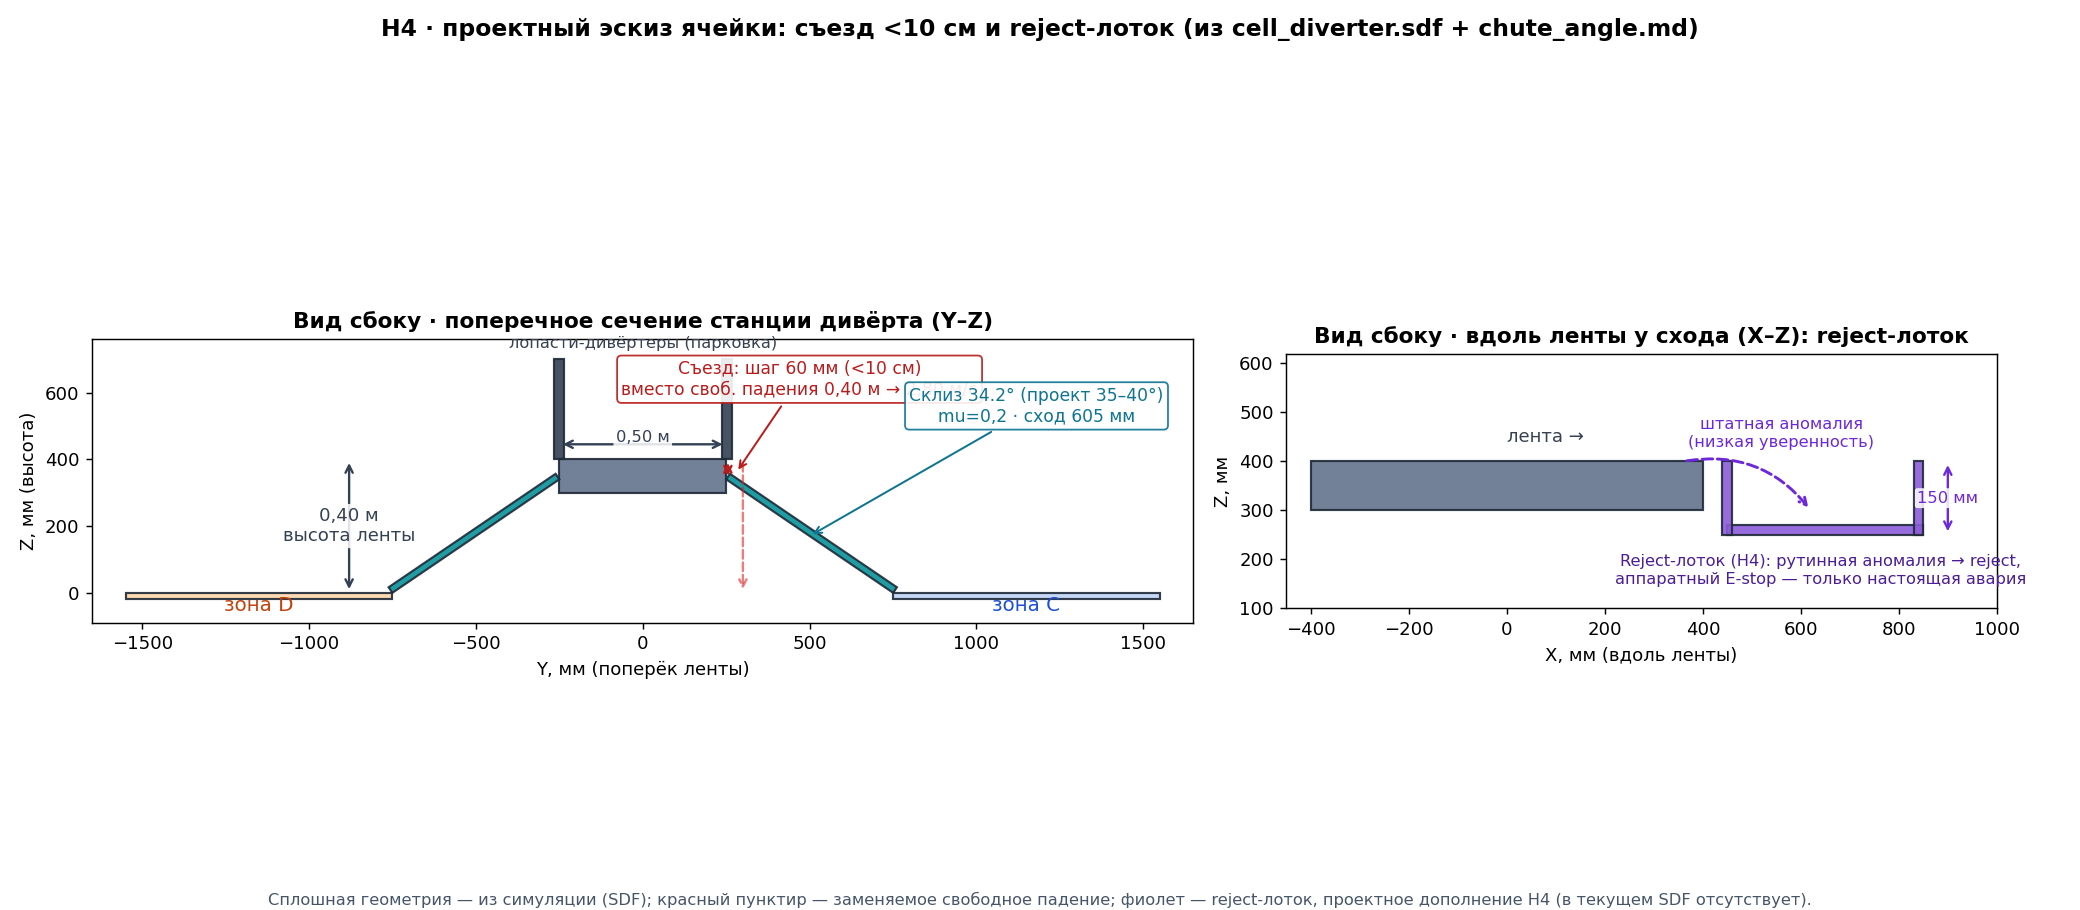
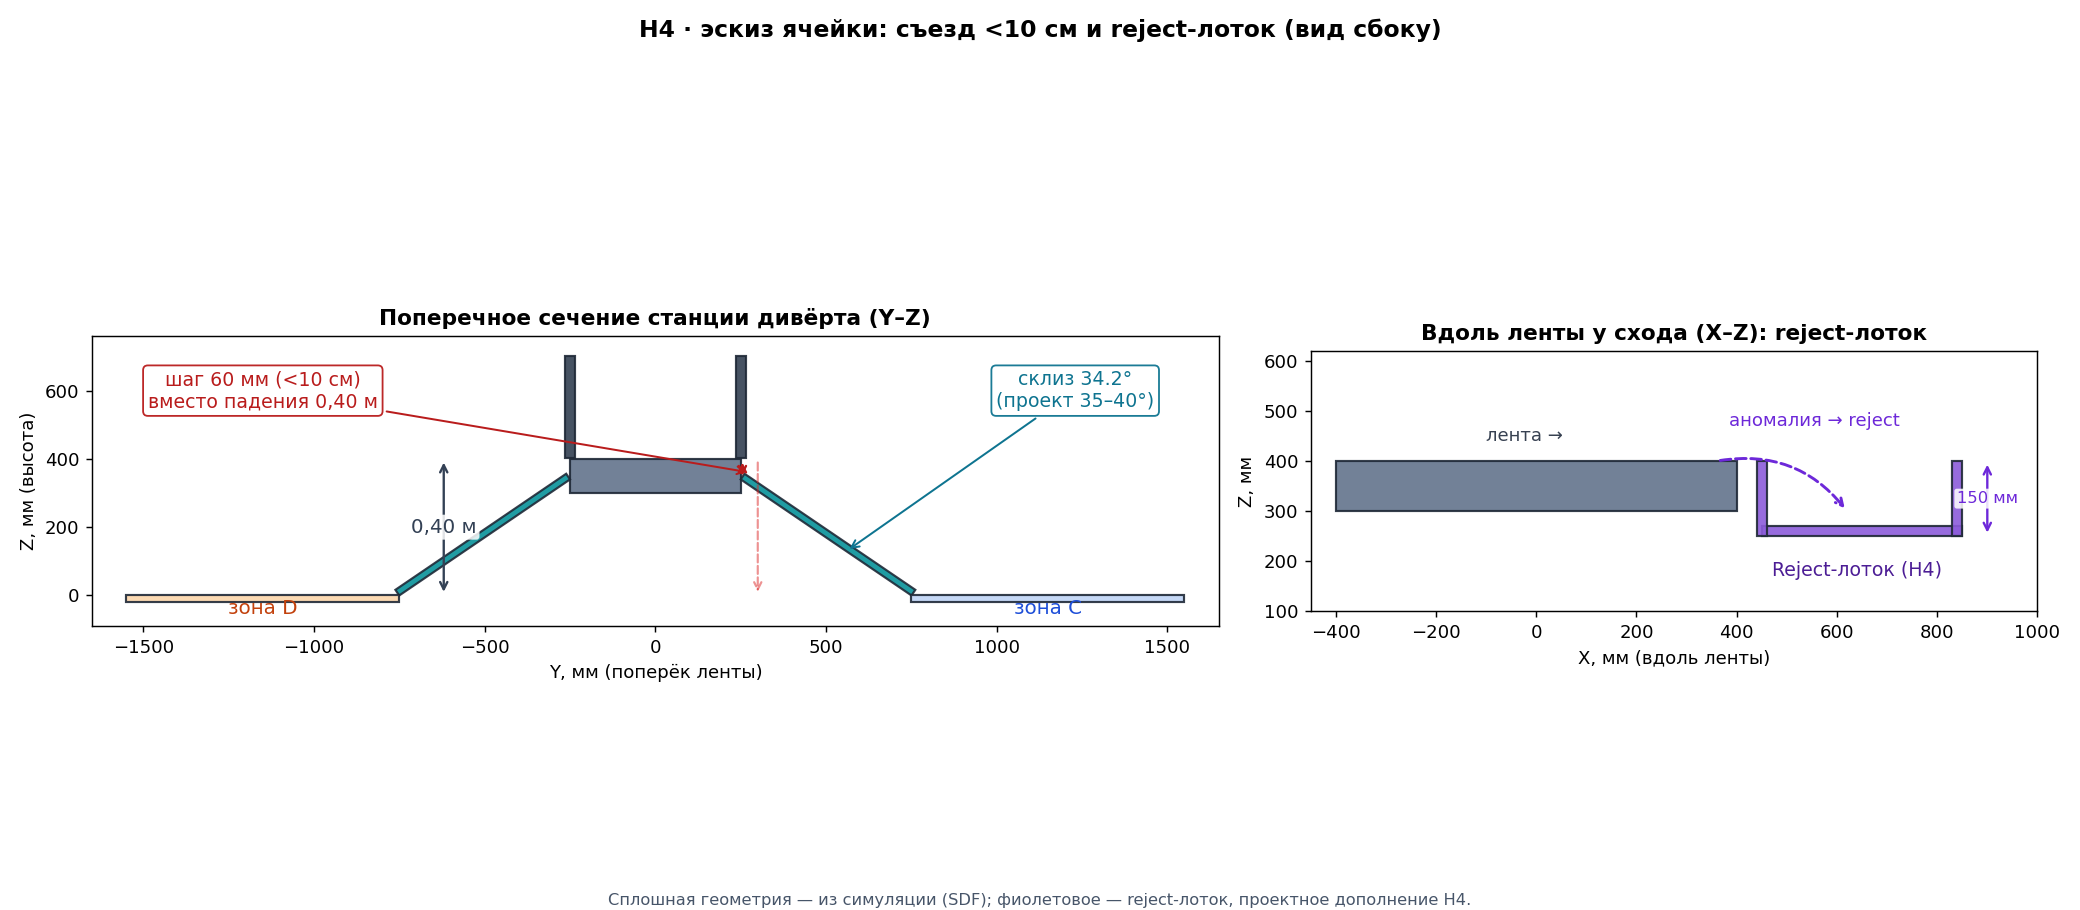
docs(defense): H4 чертёж — убрать наложение подписей и лишние размеры
Подписи шага и склиза разведены в противоположные углы (не наезжают); убраны
0,50 м, mu/605, многословные заголовки и подпись reject. Только суть: 0,40 м,
шаг 60 мм <10 см, склиз 34,2°, зоны, reject-лоток + 150 мм.

Claude-Session: https://claude.ai/code/session_01X8Q1UkytWSaZvYtUbJ2fiU

diff --git a/docs/defense/cad/render_cell_cad.py b/docs/defense/cad/render_cell_cad.py
@@ -79,37 +79,30 @@ def draw_dims():
                                  facecolor=p["color"], edgecolor="#1f2937",
                                  lw=1.2, alpha=0.9, zorder=2))
     d = geom.DIMS
-    # belt height 0.40 m (left, clear of everything)
-    _dim(axA, (-880, 0), (-880, d["belt_top_z"]), "0,40 м\nвысота ленты",
-         off=0, fs=10)
-    # belt width, between the parked blades above the belt
-    _dim(axA, (-250, 445), (250, 445), "0,50 м", off=20, fs=9)
-    axA.text(0, 735, "лопасти-дивёртеры (парковка)", ha="center", fontsize=9,
-             color="#374151")
-    # --- descent comparison at the +Y belt edge: 60 mm step vs 0.40 m fall ---
-    # solid red bracket: the 60 mm step the item now takes onto the chute
+    # belt height 0.40 m (near the belt, left)
+    _dim(axA, (-620, 0), (-620, d["belt_top_z"]), "0,40 м", off=0, fs=11)
+    # 60 mm step bracket at the +Y belt edge; faded ghost of the 0.40 m free fall
     _dim(axA, (255, d["chute_top_z"]), (255, d["belt_top_z"]), "", color="#b91c1c")
-    # faded dashed: the 0.40 m free fall it replaces
     axA.annotate("", xy=(300, 0), xytext=(300, d["belt_top_z"]),
-                 arrowprops=dict(arrowstyle="->", color="#dc2626", lw=1.3,
-                                 linestyle="--", alpha=0.6))
-    axA.annotate("Съезд: шаг 60 мм (<10 см)\nвместо своб. падения 0,40 м → 2,80 м/с",
-                 xy=(280, 360), xytext=(470, 640), fontsize=9.5, color="#b91c1c",
+                 arrowprops=dict(arrowstyle="->", color="#dc2626", lw=1.2,
+                                 linestyle="--", alpha=0.5))
+    # step label -> upper-LEFT corner (clear of chute label at upper-right)
+    axA.annotate("шаг 60 мм (<10 см)\nвместо падения 0,40 м",
+                 xy=(278, 360), xytext=(-1150, 600), fontsize=10.5, color="#b91c1c",
                  ha="center", va="center",
                  bbox=dict(boxstyle="round,pad=0.25", fc="white", ec="#b91c1c",
-                           alpha=0.9),
+                           alpha=0.95),
                  arrowprops=dict(arrowstyle="->", color="#b91c1c", lw=1.1))
-    # --- chute label block, in the open area above zone C ---
-    axA.annotate(f"Склиз {geom.CHUTE_ANGLE_DEG:.1f}° (проект 35–40°)\n"
-                 "mu=0,2 · сход 605 мм",
-                 xy=(500, 170), xytext=(1180, 560), fontsize=9.5, color="#0e7490",
+    # chute label -> upper-RIGHT corner
+    axA.annotate(f"склиз {geom.CHUTE_ANGLE_DEG:.1f}°\n(проект 35–40°)",
+                 xy=(560, 130), xytext=(1230, 600), fontsize=10.5, color="#0e7490",
                  ha="center", va="center",
                  bbox=dict(boxstyle="round,pad=0.25", fc="white", ec="#0e7490",
-                           alpha=0.9),
+                           alpha=0.95),
                  arrowprops=dict(arrowstyle="->", color="#0e7490", lw=1.1))
     axA.text(1150, -55, "зона C", fontsize=11, color="#1d4ed8", ha="center")
     axA.text(-1150, -55, "зона D", fontsize=11, color="#c2410c", ha="center")
-    axA.set_title("Вид сбоку · поперечное сечение станции дивёрта (Y–Z)",
+    axA.set_title("Поперечное сечение станции дивёрта (Y–Z)",
                   fontsize=12, weight="bold")
     axA.set_xlim(-1650, 1650)
     axA.set_ylim(-90, 760)
@@ -127,14 +120,13 @@ def draw_dims():
     axB.annotate("", xy=(620, 300), xytext=(360, 400),
                  arrowprops=dict(arrowstyle="->", color="#6d28d9", lw=1.6,
                                  linestyle="--", connectionstyle="arc3,rad=-0.3"))
-    axB.text(560, 430, "штатная аномалия\n(низкая уверенность)", fontsize=9,
-             color="#6d28d9", ha="center")
+    axB.text(555, 470, "аномалия → reject", fontsize=10, color="#6d28d9",
+             ha="center")
     _dim(axB, (900, 250), (900, 400), "150 мм", off=0, color="#6d28d9", fs=9)
-    axB.text(640, 150, "Reject-лоток (H4): рутинная аномалия → reject,\n"
-                       "аппаратный E-stop — только настоящая авария",
-             fontsize=9, color="#4c1d95", ha="center")
-    axB.text(0, 440, "лента →", fontsize=10, color="#374151")
-    axB.set_title("Вид сбоку · вдоль ленты у схода (X–Z): reject-лоток",
+    axB.text(640, 170, "Reject-лоток (H4)", fontsize=10.5, color="#4c1d95",
+             ha="center")
+    axB.text(-100, 440, "лента →", fontsize=10, color="#374151")
+    axB.set_title("Вдоль ленты у схода (X–Z): reject-лоток",
                   fontsize=12, weight="bold")
     axB.set_xlim(-450, 1000)
     axB.set_ylim(100, 620)
@@ -142,13 +134,11 @@ def draw_dims():
     axB.set_xlabel("X, мм (вдоль ленты)")
     axB.set_ylabel("Z, мм")
 
-    fig.suptitle("H4 · проектный эскиз ячейки: съезд <10 см и reject-лоток "
-                 "(из cell_diverter.sdf + chute_angle.md)", fontsize=13,
-                 weight="bold")
+    fig.suptitle("H4 · эскиз ячейки: съезд <10 см и reject-лоток (вид сбоку)",
+                 fontsize=13, weight="bold")
     fig.text(0.5, 0.005,
-             "Сплошная геометрия — из симуляции (SDF); красный пунктир — "
-             "заменяемое свободное падение; фиолет — reject-лоток, проектное "
-             "дополнение H4 (в текущем SDF отсутствует).",
+             "Сплошная геометрия — из симуляции (SDF); фиолетовое — reject-лоток, "
+             "проектное дополнение H4.",
              ha="center", fontsize=9, color="#475569")
     fig.tight_layout(rect=[0, 0.03, 1, 0.96])
     path = os.path.join(OUT, "cell_sideview_dims.png")
